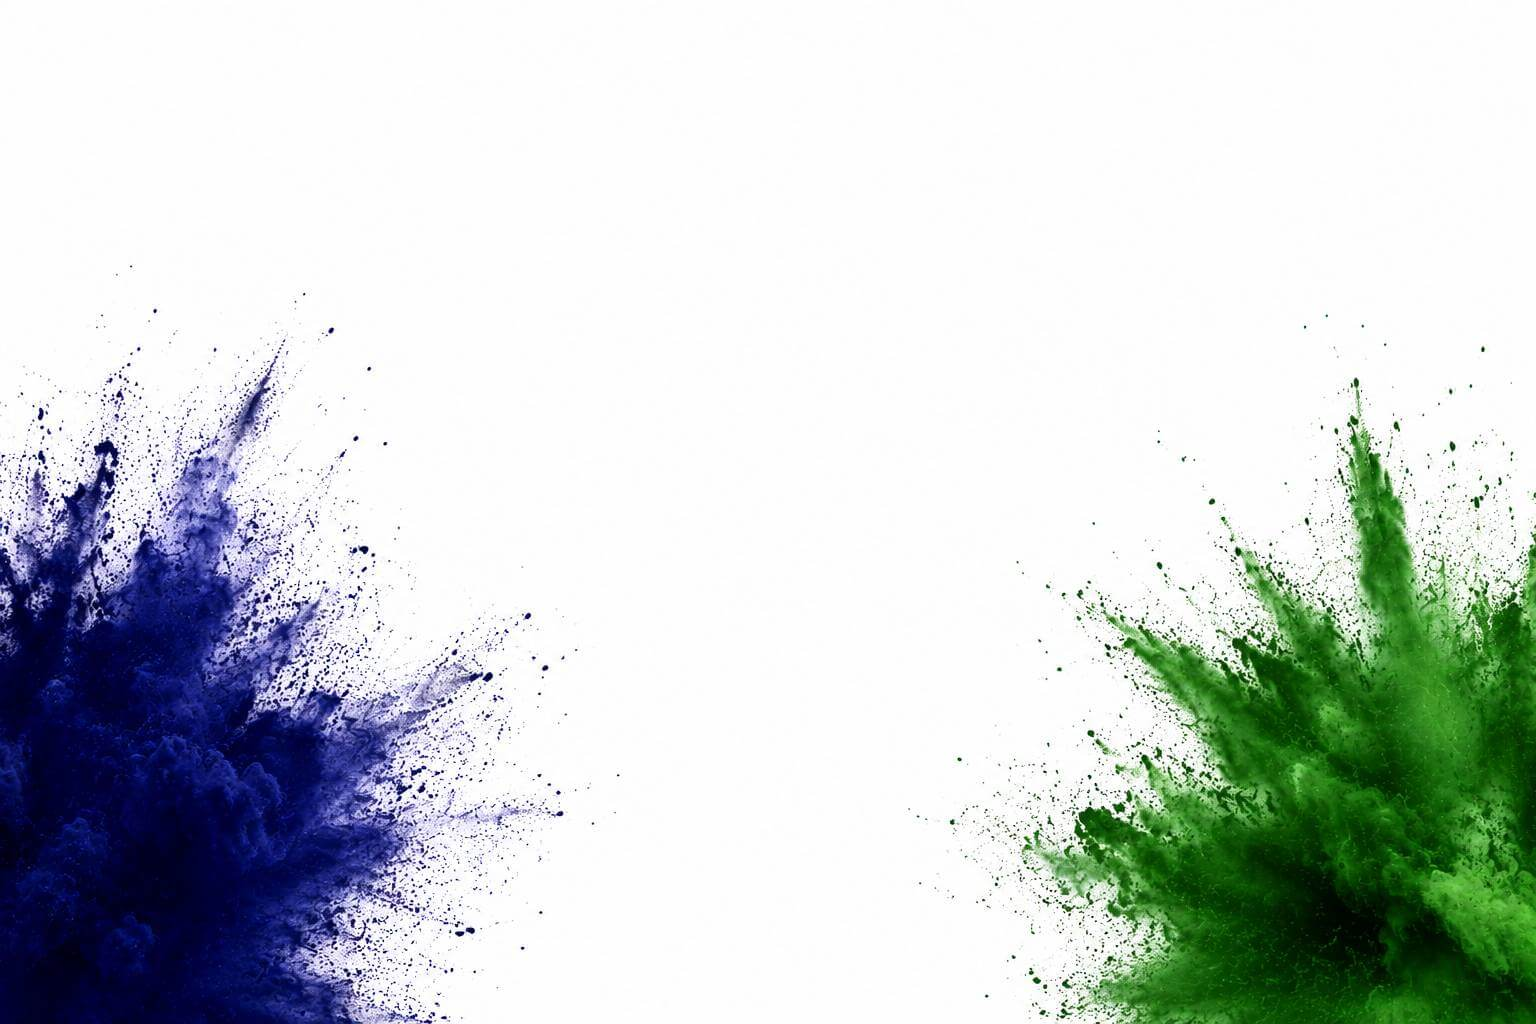
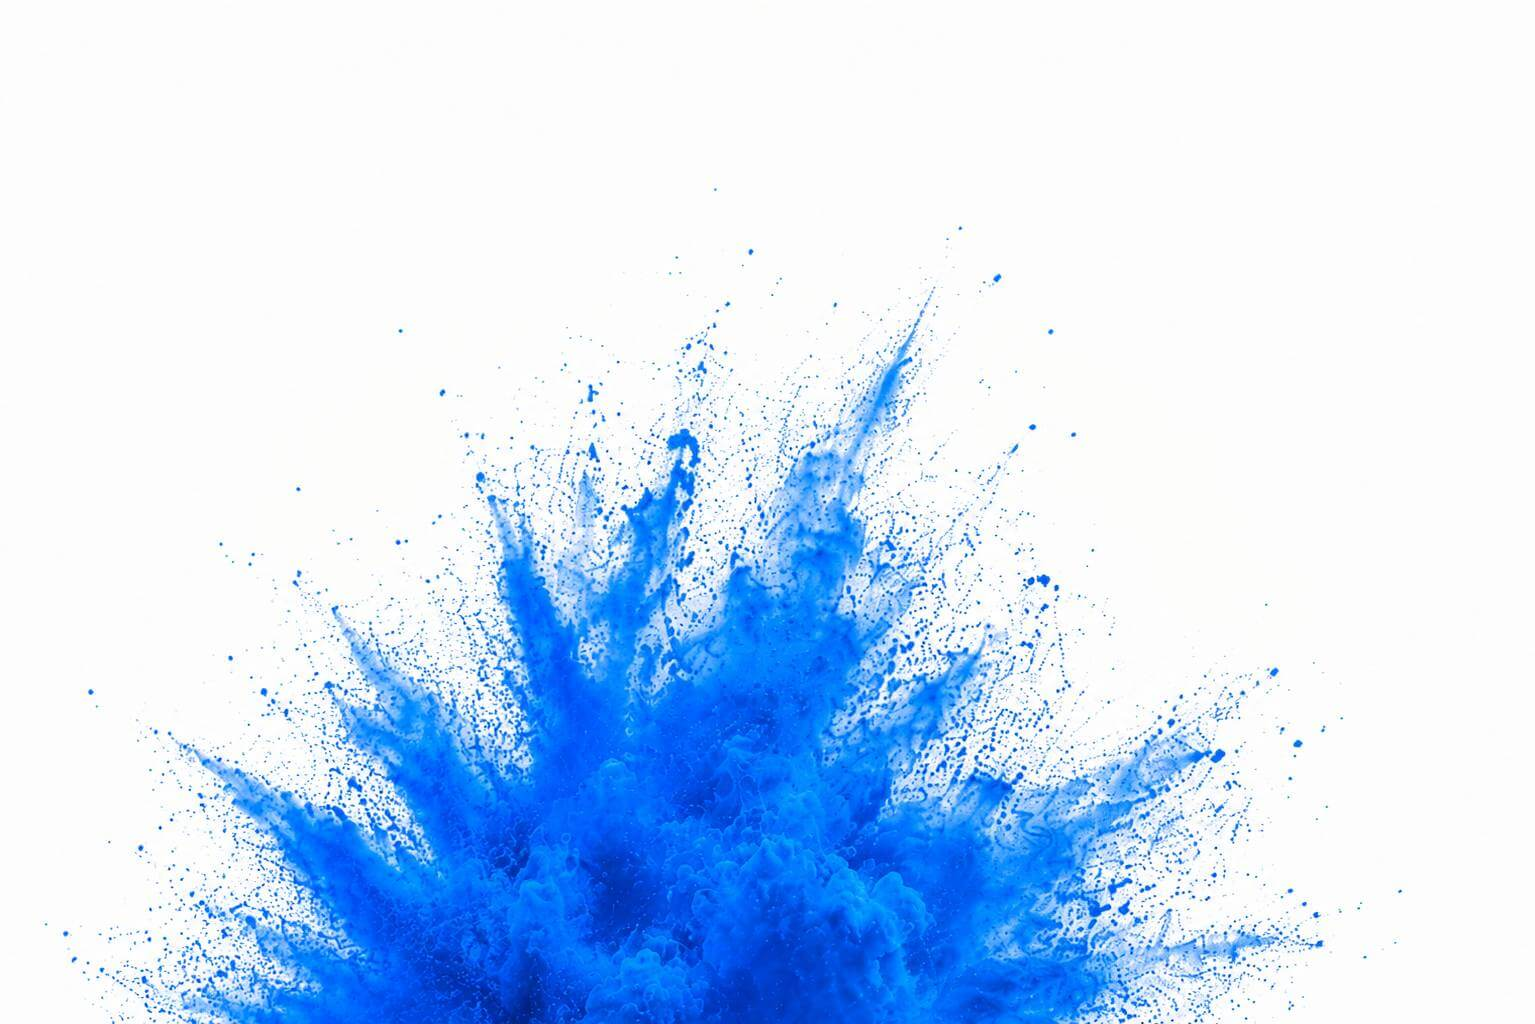
Add files via upload

diff --git a/nazaritediditalsolutionswebsite/index.html b/nazaritediditalsolutionswebsite/index.html
@@ -201,11 +201,11 @@
       /* ---------- CUSTOM WEBSITE SOLUTIONS SENTENCE ---------- */
       
       .hero-page-custom-website-solutions {
-        font-family: Georgia, 'Times New Roman', serif;
-        font-size: clamp(1.4rem, 2.5vw, 1.6rem);
+        font-family: Arial, sans-serif;
+        font-size: clamp(1.4rem, 2.6vw, 1.6rem);
         font-style: italic;
-        font-weight: 700;
-        color: #00006D;
+        font-weight: 900;
+        color: black;
         margin-bottom: 1rem;
         letter-spacing: 0.03em;
         animation: fadeUp 0.9s 0.65s cubic-bezier(0.22, 1, 0.36, 1) both;
@@ -220,7 +220,7 @@
       
       .hero-page-button {
         display: inline-block;
-        font-family: Arial, sans-serif;;
+        font-family: Arial, sans-serif;
         font-size: 1rem;
         font-weight: 700;
         color: white;
@@ -259,11 +259,11 @@
       }
 
       .scroll-indicator-text {
-        font-family: Georgia, 'Times New Roman', serif;
-        font-size: 0.75rem;
+        font-family: Arial, sans-serif;
+        font-size: 0.8rem;
         letter-spacing: 0.15em;
-        color: #00006D;
-        font-weight: 700;
+        color: black;
+        font-weight: 800;
       }
 
       .scroll-indicator-chevrons {
@@ -276,8 +276,8 @@
       .chevron {
         width: 18px;
         height: 10px;
-        border-right: 2.5px solid #00006D;
-        border-bottom: 2.5px solid #00006D;
+        border-right: 2.5px solid black;
+        border-bottom: 2.5px solid black;
         transform: rotate(45deg);
         animation: bounce 1.4s infinite;
       }
@@ -412,7 +412,7 @@
         }
 
         .hero-page-custom-website-solutions { 
-          font-size: 1rem; 
+          font-size: 1.4rem; 
         }
 
         .about-page-box { 
@@ -439,7 +439,6 @@
           width: 100%;
           height: 100%;
           object-fit: cover;
-          object-position: 70% 25%;
           display: block;
         }
       
@@ -476,7 +475,7 @@
         }
 
         .hero-page-custom-website-solutions {
-          font-size: 0.9rem;
+          font-size: 1rem;
           margin-bottom: 1rem;
         }
 